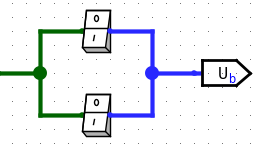
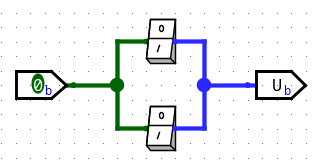
Update ch2 in logic circuit

Changed region(s): [[0.0, 0.0533, 0.9697, 0.9333], [0.7576, 0.7733, 0.7879, 0.8]]

diff --git a/docs/02-school-lecture/04-logic-circuit/ch02-boolean-algebra.md b/docs/02-school-lecture/04-logic-circuit/ch02-boolean-algebra.md
@@ -37,6 +37,10 @@ permalink: /docs/logic-circuit/ch2
 
 - switch를 도입해서 이해
 
+<center markdown="block">
+![switch](/assets/logic-circuit/img/2-switch.png)
+</center>
+
 $$
 \begin{cases}
 x = 0 & \text{if open} \\
